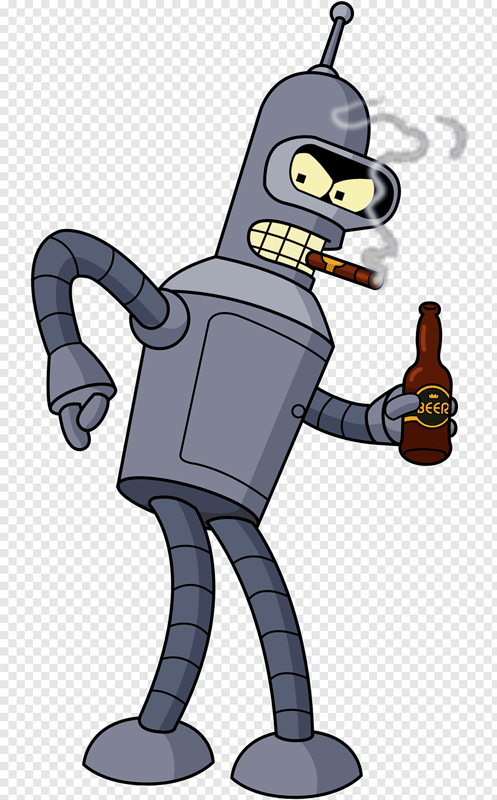
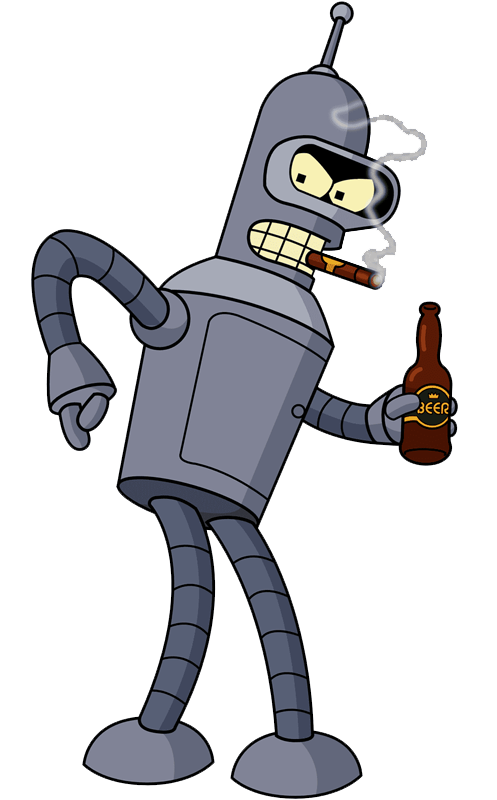
Update bender image - make it transparent

Changed region(s): [[0.0, 0.0, 1.0, 1.0]]

diff --git a/src/App.js b/src/App.js
@@ -22,7 +22,7 @@ const initialState = {
   speed: 200
 };
 
-function App() {
+const App = () => {
   const [snakePoints, setSnakePoints] = useState(initialState.snakePoints);
   const [targets, generateTarget] = useState([initialState.target(), initialState.target()]);
   const [direction, setDirection] = useState(initialState.direction);
